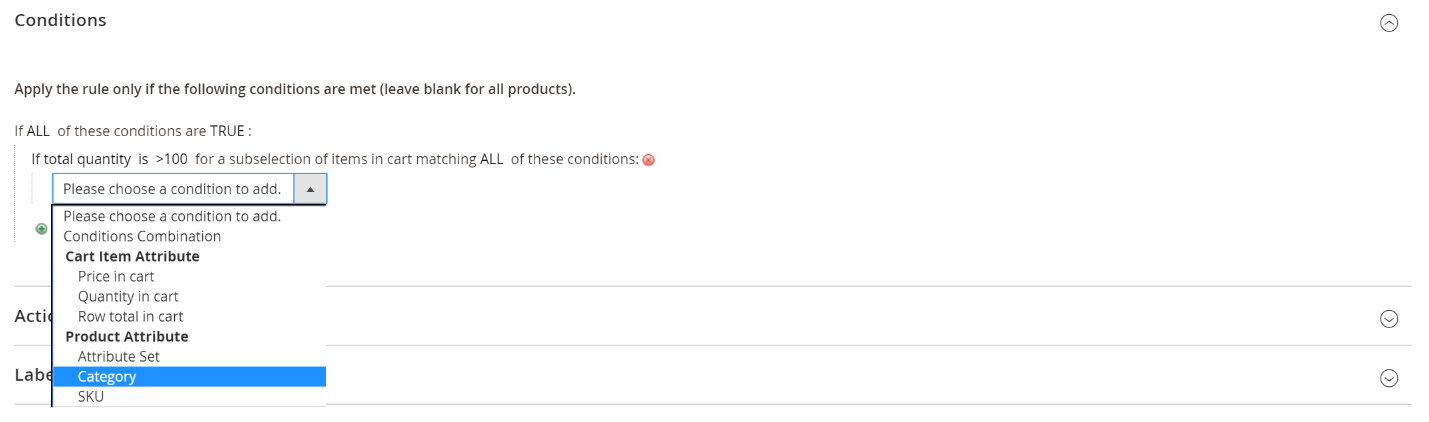
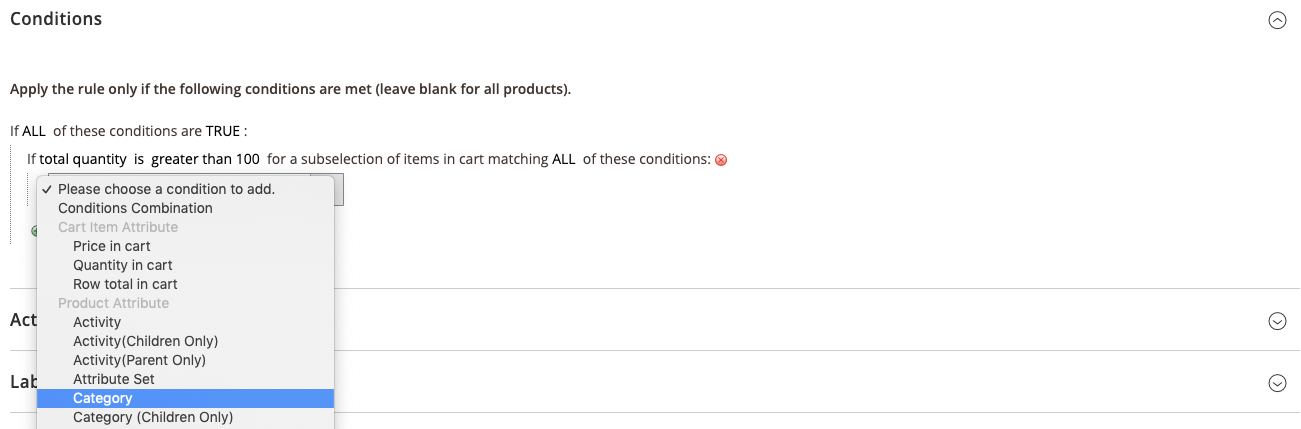
Updated per GH#240
- updated 2 images and related text
- added text for accepting category selelctions

diff --git a/src/marketing/price-rules-cart-create.md b/src/marketing/price-rules-cart-create.md
@@ -109,7 +109,7 @@ _Conditions_
         ![Cart price rule condition]({% link images/images/price-rule-cart-condition-products-subselection2.png %}){: .zoom}
         _If ALL of these conditions are TRUE_
 
-   - Click the "more" (...) link, and enter `>100`. This condition requires the total quantity of the cart to be greater than 100.
+   - Click the "more" (...) link, and enter `greater than 100`. This condition requires the total quantity of the cart to be greater 101 or greater.
 
         ![Cart price rule condition - total quantity value]({% link images/images/price-rule-cart-condition-products-subselection3.png %}){: .zoom}
         _Total Quantity Value_
@@ -121,7 +121,7 @@ _Conditions_
 
     - In the next part of the condition, click the **more** (...) link to display the input field. Then, open the **Chooser** (![List icon]({% link images/images/btn-chooser.png %})) to display the category tree.
 
-    - Select the checkbox of the category that you want to use as a condition for the price rule.
+    - Select the checkbox of the category that you want to use as a condition for the price rule. Click the ![Add icon]({% link images/images/btn-checkmark-green.png %}) icon to accept the category selection(s).
 
         The condition can be based on any category that is a child of the store’s [root category]({% link catalog/category-root.md %}).
 
